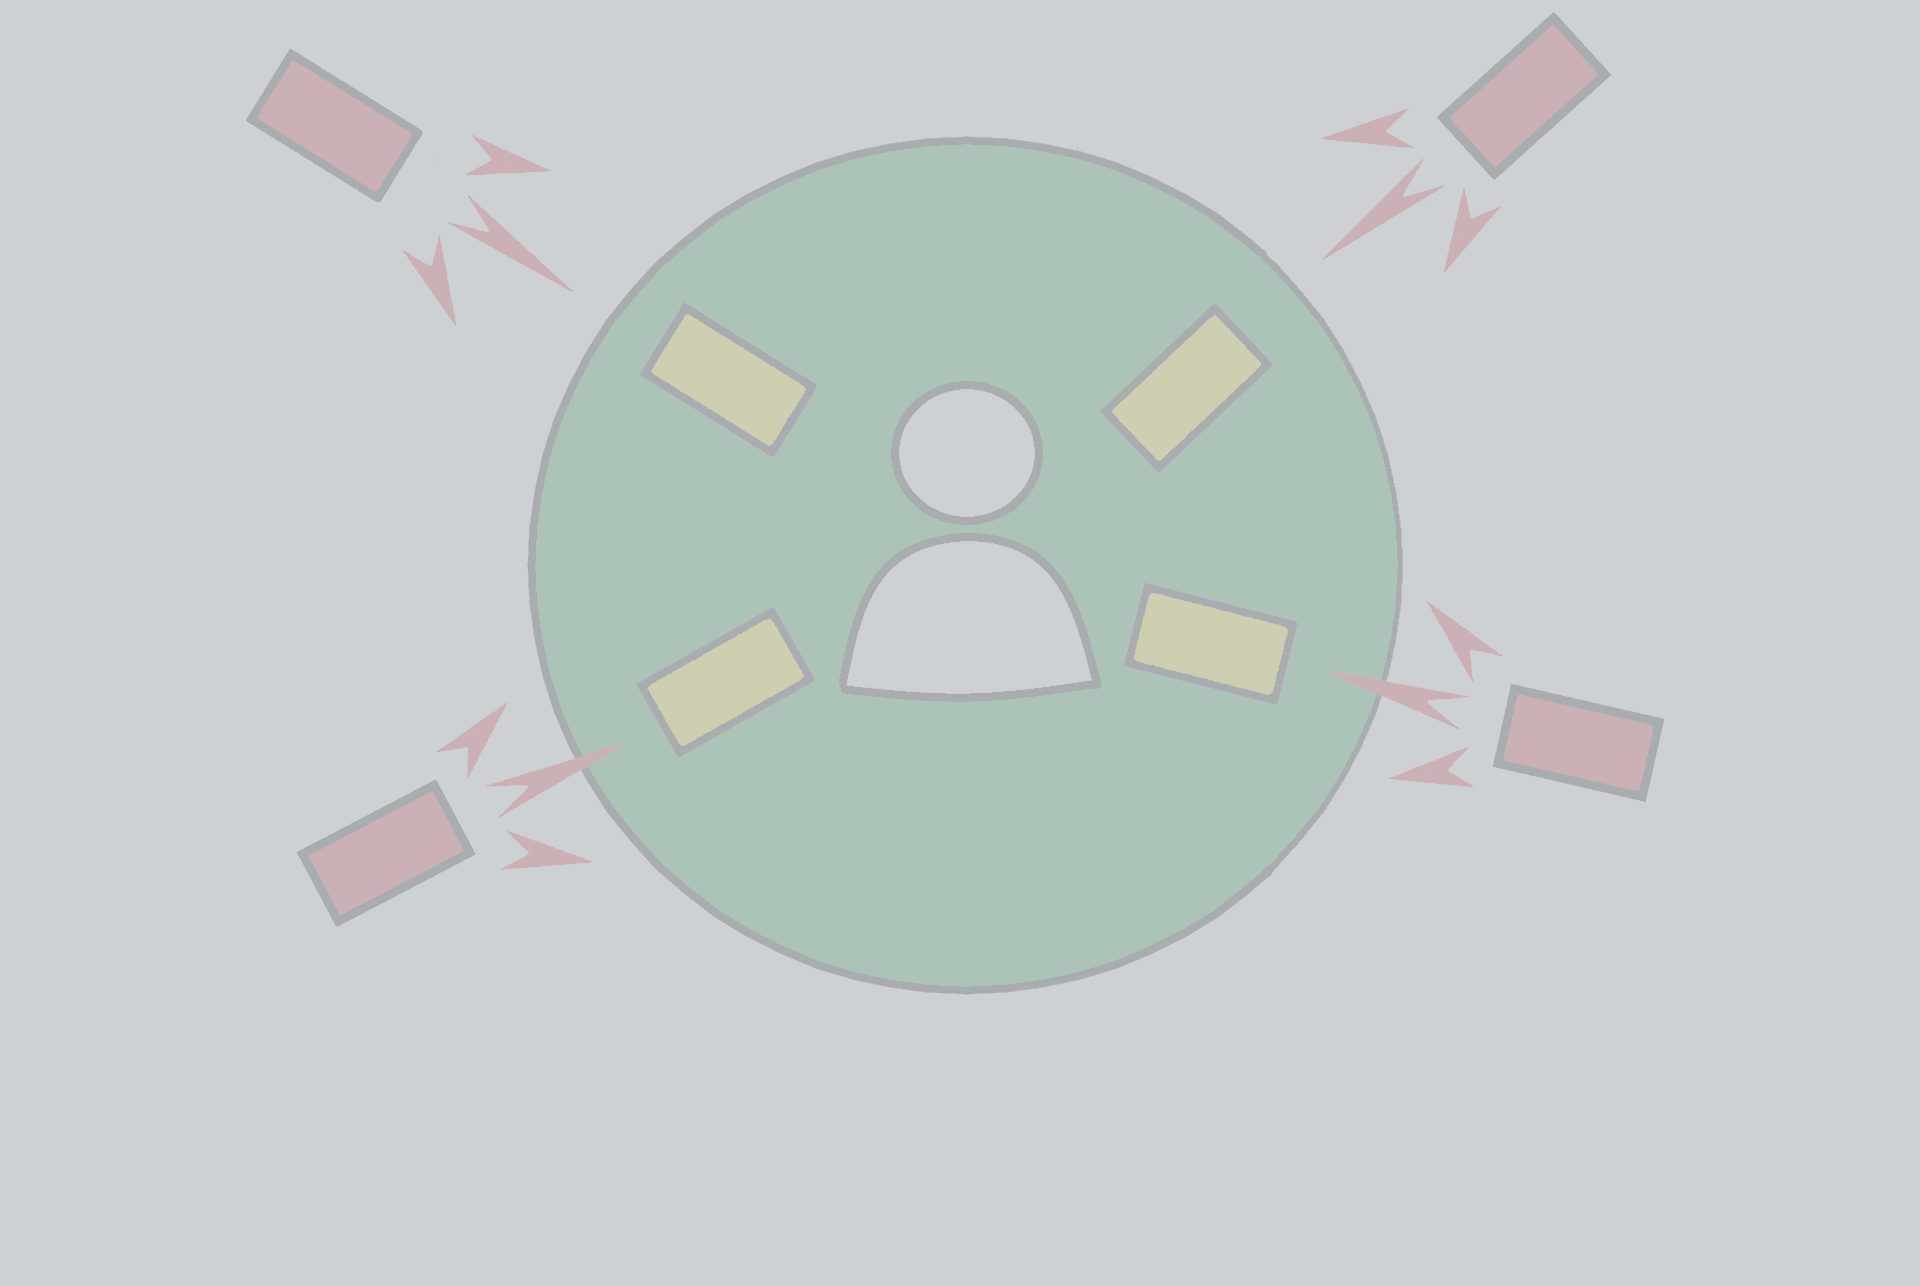
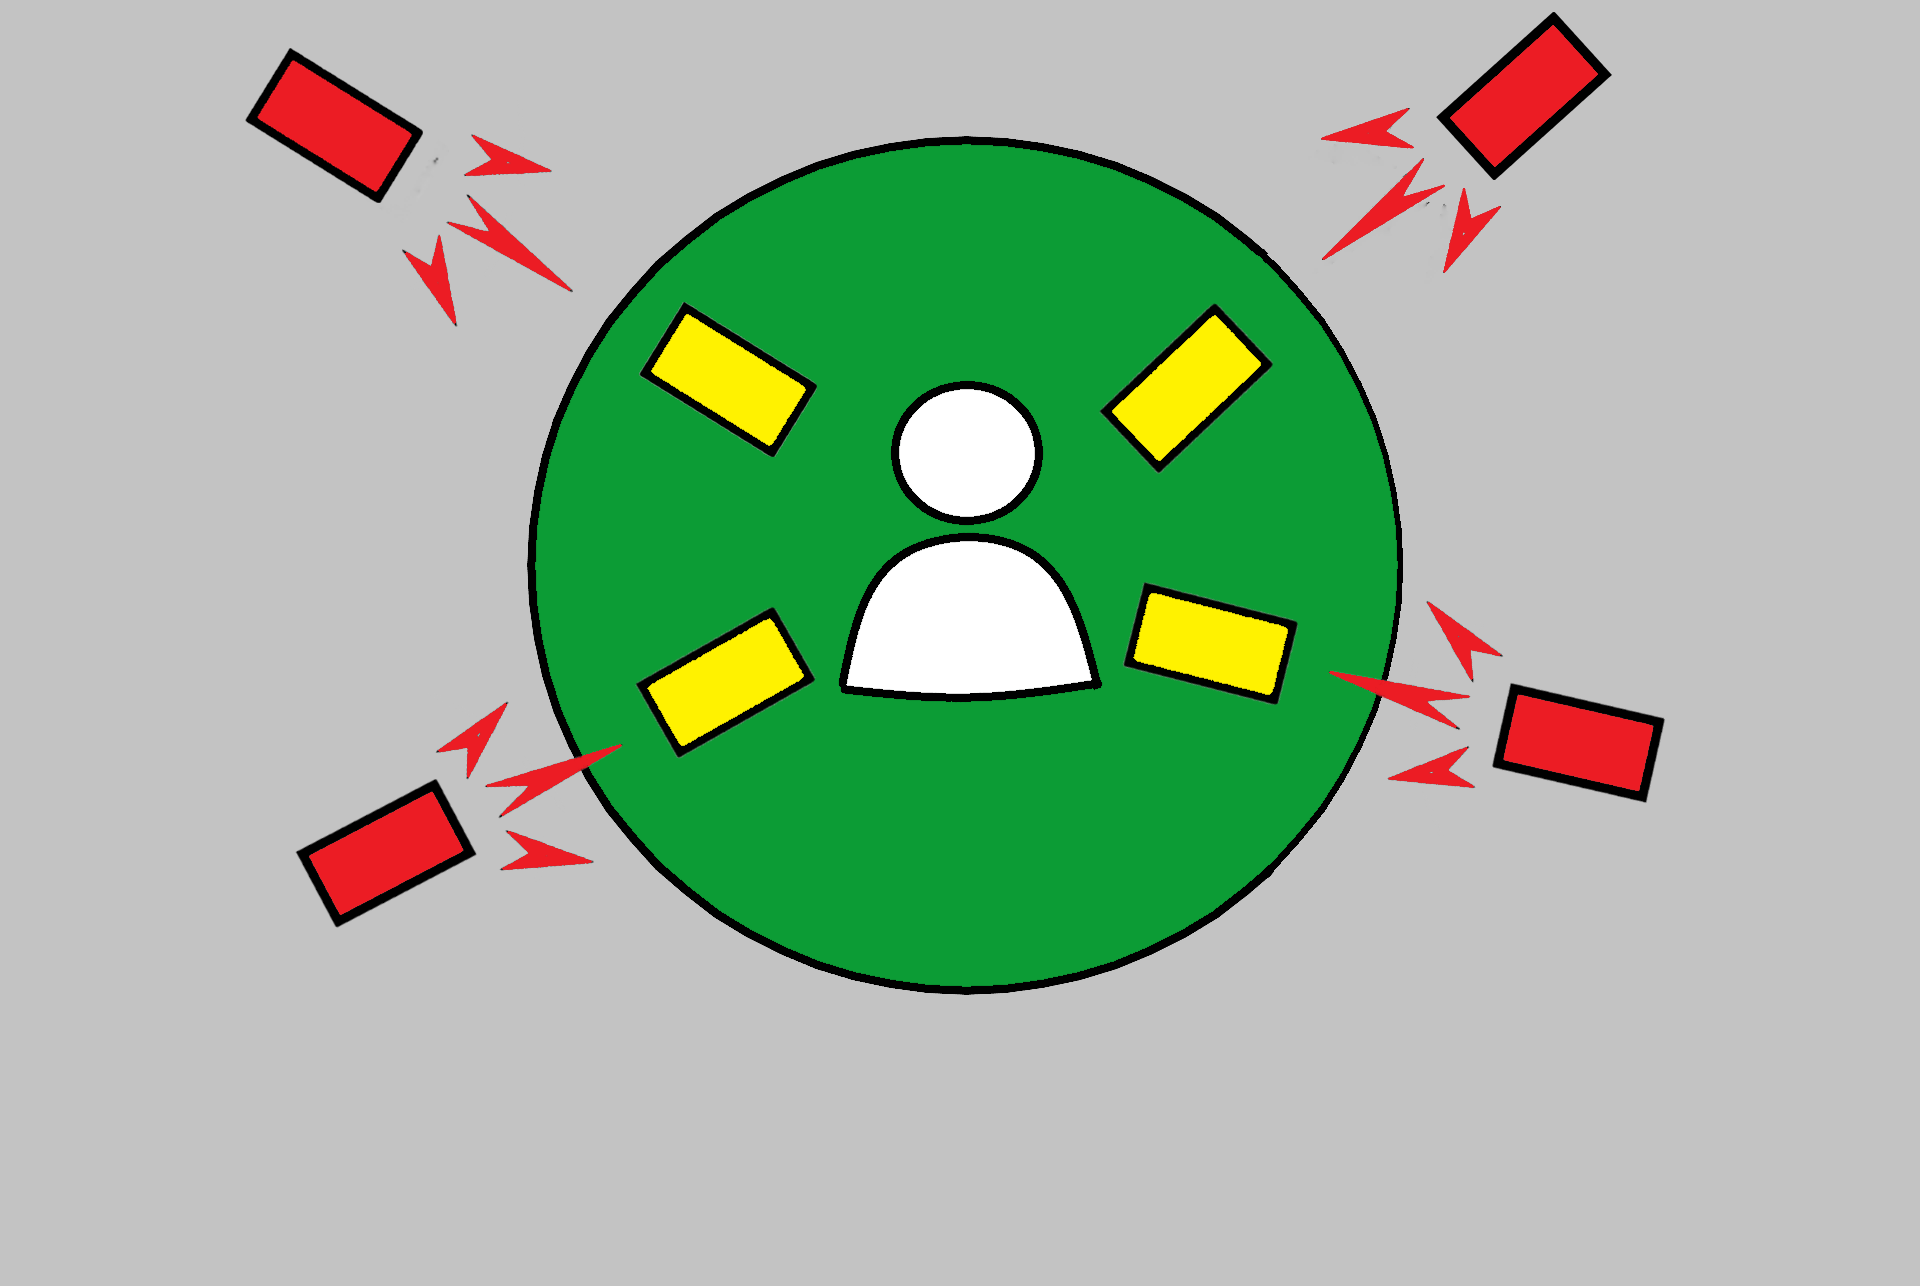
make images opacity through css

diff --git a/people-vocabularies-client-site/src/App.css b/people-vocabularies-client-site/src/App.css
@@ -56,15 +56,15 @@ html, body { height: 100%; margin: 0; }
 }
 
 .jumbotron-trainer{
-  background-image: url(assets/trainer.png);
+  background-image: linear-gradient(to bottom, rgba(215,219,222,0.75) 0%,rgba(215,219,222,0.9) 100%), url(assets/trainer.png);
 }
 
 .jumbotron-uploader{
-  background-image: url(assets/uploader.png);
+  background-image: linear-gradient(to bottom, rgba(215,219,222,0.75) 0%,rgba(215,219,222,0.9) 100%), url(assets/uploader.png);
 }
 
 .jumbotron-corrector-translater{
-  background-image: url(assets/corrector-translater.png);
+  background-image: linear-gradient(to bottom, rgba(215,219,222,0.75) 0%,rgba(215,219,222,0.9) 100%), url(assets/corrector-translater.png);
 }
 
 
